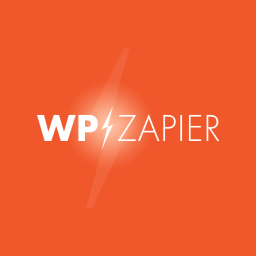
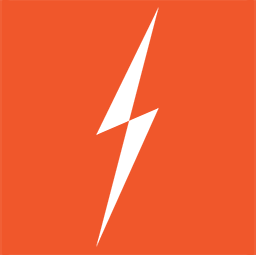
Replace thumbnail image.
Improved thumbnail image.

Changed region(s): [[0.125, 0.0275, 0.875, 0.9608]]

diff --git a/wp-zapier.php b/wp-zapier.php
@@ -17,7 +17,9 @@ defined( 'ABSPATH' ) or exit;
 /**
  * Include update class for automatic updates.
  */
-define( 'YOOHOO_STORE', 'https://yoohooplugins.com/edd-sl-api/' );
+if ( ! defined( 'YOOHOO_STORE' ) ) {
+	define( 'YOOHOO_STORE', 'https://yoohooplugins.com/edd-sl-api/' );
+}
 define( 'YH_PLUGIN_ID', 453 );
 define( 'WPZP_VERSION', '2.0' );
 
